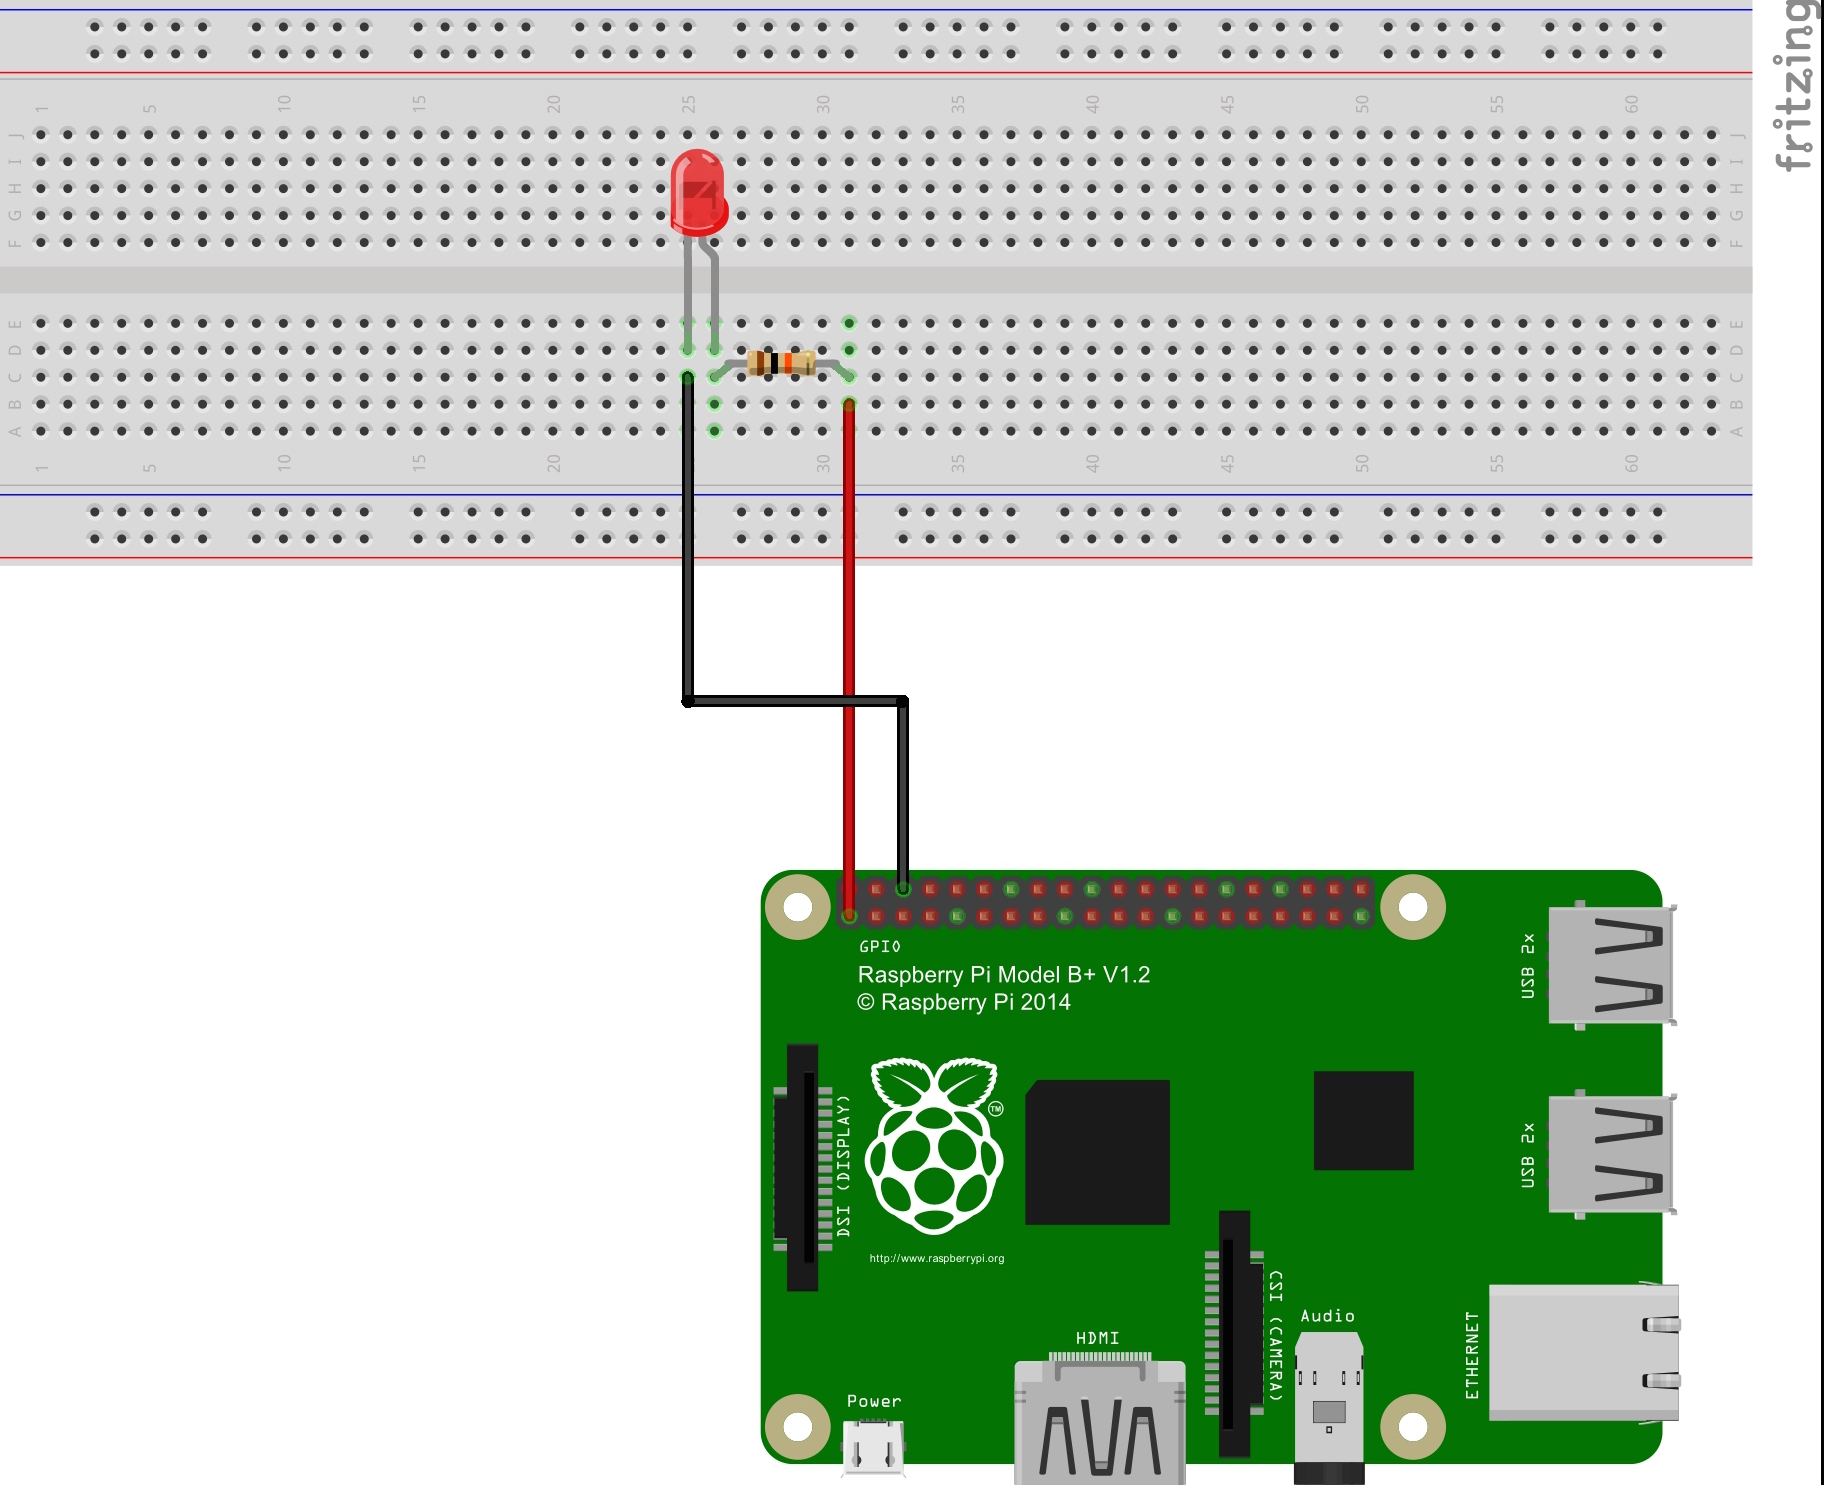
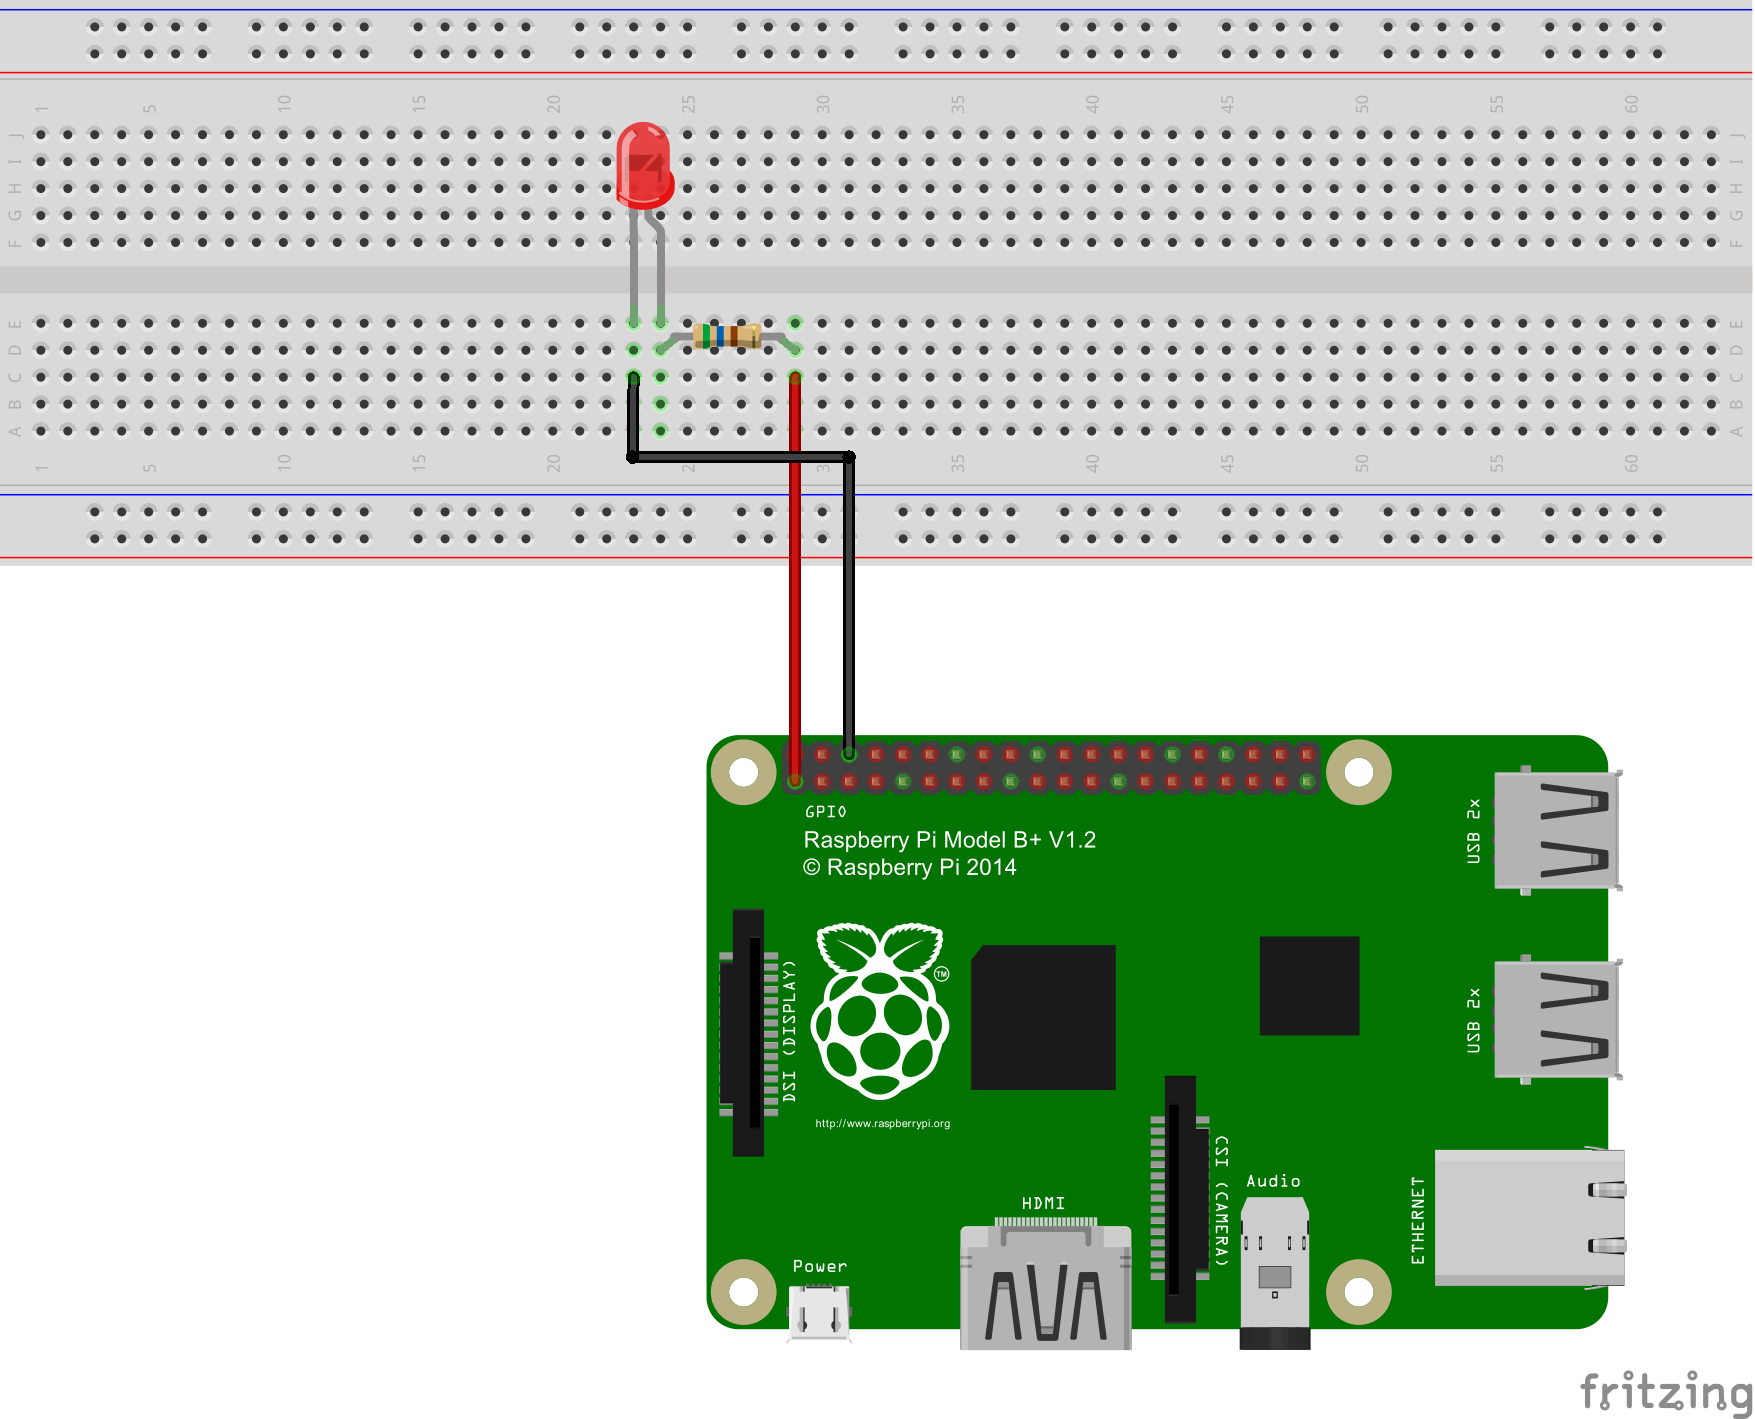
Updates to KitBlinky fritzing image and the App Deployment specifiers

Changed region(s): [[0.0, 0.0, 1.0, 1.0]]

diff --git a/en-US/win10/samples/KitBlinky.md b/en-US/win10/samples/KitBlinky.md
@@ -43,7 +43,22 @@ You'll need a few components:
 
 <sub>*Image made with [Fritzing](http://fritzing.org/){:target="_blank"}*</sub>
 
-{% include_relative AppDeploymentCS.md %}
+###Deploy your app
+
+1. With the application open in Visual Studio, set the architecture in the toolbar dropdown to `ARM`.
+
+2. Next, in the Visual Studio toolbar, click on the `Local Machine` dropdown and select `Remote Machine`<br/>
+
+    ![RemoteMachine Target]({{site.baseurl}}/images/AppDeployment/cs-remote-machine-debugging.png)
+
+3. At this point, Visual Studio will present the **Remote Connections** dialog. If you previously used [PowerShell]({{site.baseurl}}/{{page.lang}}/win10/samples/PowerShell.htm) to set a unique name for your device, you can enter it here (in this example, we're using **my-device**).
+Otherwise, use the IP address of your Windows IoT Core device. After entering the device name/IP select `None` for Windows Authentication, then click **Select**.
+
+    ![Remote Machine Debugging]({{site.baseurl}}/images/AppDeployment/cs-remote-connections.PNG)
+
+4. You can verify or modify these values by navigating to the project properties (select **Properties** in the Solution Explorer) and choosing the `Debug` tab on the left:
+
+    ![Project Properties Debug Tab]({{site.baseurl}}/images/AppDeployment/cs-debug-project-properties.PNG)
 
 When everything is set up, you should be able to press F5 from Visual Studio to deploy the code.
 
